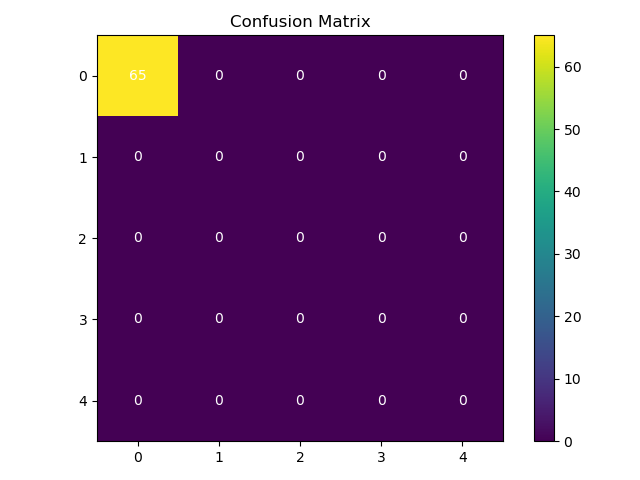
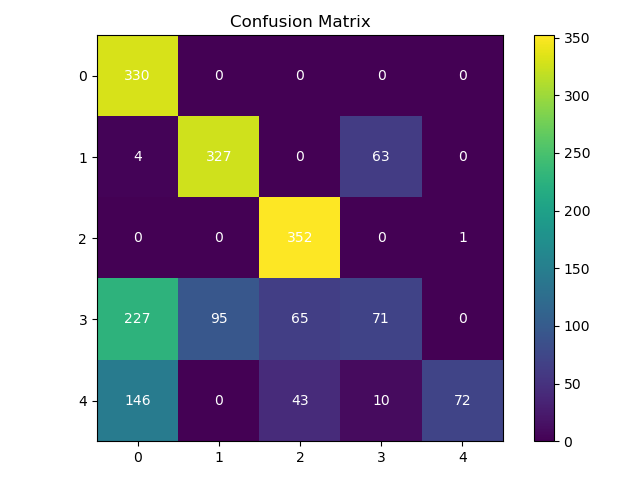
add mapping classes function

diff --git a/Kmeans.py b/Kmeans.py
@@ -95,6 +95,35 @@ def choose_initial_cluster_centers(points, clusters, dim):
 
     return us
 
+def map_classes(clustered_data, labeled_data, num_classes):
+    indicies = []
+    predict = clustered_data.copy()
+    labels = labeled_data.copy()
+    
+    all_counts = []
+    for i in range(num_classes):
+        counts = []
+        uniqueTruthvalues=np.unique(labeled_data)
+        unique, counts = np.unique(clustered_data[np.where(labeled_data == uniqueTruthvalues[i])], return_counts=True)
+        counts = dict(zip(unique, counts))
+        for k in range(num_classes):
+            if k not in counts.keys():
+                counts[k] = 0
+        keys = sorted(counts.keys())
+        counts_list = []
+        for key in keys:
+            counts_list.append(counts[key])
+
+        all_counts.append(counts_list)
+    
+    all_counts = np.array(all_counts)
+
+    for i in range(num_classes):
+        labels[labeled_data == uniqueTruthvalues[np.where(all_counts[0:,i:(i+1)] == np.amax(all_counts[0:,i:(i+1)]))[0][0]]] = i-(num_classes - 1)
+
+    labels += 4
+
+    return predict, labels
 
 #genrates initial means randomly
 def randomClassMeanGenrator(img,numberOfClasses,dim):
@@ -162,7 +191,7 @@ cl=kmeans.cluster_centers_
 
 groundtruthdata=groundtruth['Q3_GT']
 #[  0 182 219 237 255] it contains 5 unique classes not 7
-print(groundtruthdata[5])
+# print(groundtruthdata[5])
 arrspec =np.zeros((5,204))
 arrspec[0]=cl[0]
 arrspec[1]=cl[1]
@@ -178,20 +207,29 @@ arrspec=choose_initial_cluster_centers(imgdata,5,imgdata.shape[2])
 #         print(str(i) + " " + str(j))
 #         print((arrspec[j] == arrspec[i]).all())
 
+
+
+
 kmImage,clusterNoImage,newClusterMeans= kmeansX(imgdata,5,arrspec)
-reIndexed=np.zeros(clusterNoImage.shape)
-norms=np.zeros(5)
-for i in range(5):
-    norms[i]=np.linalg.norm(newClusterMeans[i]) 
-normssorted=np.unique(norms)
-uniqueTruthvalues=np.unique(groundtruthdata)    
-for j in range(0,clusterNoImage.shape[0]):
-    for k in range(0,clusterNoImage.shape[1]):
-        classNumber=clusterNoImage[j][k]
-        classMeanNorm=norms[(classNumber).astype(int)]
-        toBeAddedClassNo=uniqueTruthvalues[np.where(normssorted==classMeanNorm)]
-        reIndexed[j][k]=toBeAddedClassNo
-print(reIndexed[5])
+
+predict, labels = map_classes(clusterNoImage, groundtruthdata, 5)
+
+# reIndexed=np.zeros(clusterNoImage.shape)
+# norms=np.zeros(5)
+# for i in range(5):
+#     norms[i]=np.linalg.norm(newClusterMeans[i]) 
+# normssorted=np.unique(norms)
+# uniqueTruthvalues=np.unique(groundtruthdata)    
+# # print(normssorted)
+# # print(uniqueTruthvalues)
+# for j in range(0,clusterNoImage.shape[0]):
+#     for k in range(0,clusterNoImage.shape[1]):
+#         classNumber=clusterNoImage[j][k]
+#         classMeanNorm=norms[(classNumber).astype(int)]
+#         toBeAddedClassNo=uniqueTruthvalues[np.where(normssorted==classMeanNorm)]
+#         reIndexed[j][k]=toBeAddedClassNo
+# print(reIndexed[5])
+# print(groundtruthdata[0])
 # print(clusterNoImage[0])
 # print(groundtruthdata[0])
 # print(kmImage.shape)
@@ -201,8 +239,8 @@ plt.figure()
 plt.imshow(clusterNoImage.astype(np.uint8))
 plt.savefig("number.png")
 
-plt.imshow(reIndexed.astype(np.uint8))
-plt.savefig("number4.png")
+# plt.imshow(reIndexed.astype(np.uint8))
+# plt.savefig("number4.png")
 
 # plt.figure()
 # plt.imshow(groundtruthdata.astype(np.uint8))
@@ -220,10 +258,10 @@ plt.savefig("number4.png")
 # print(kmeans.cluster_centers_)
 # print(kmeans.labels_)
 
-plt.figure()
-plt.imshow(np.reshape(kmeans.labels_,(42,43)).astype(np.uint8))
-plt.savefig("number3.png")
+# plt.figure()
+# plt.imshow(np.reshape(kmeans.labels_,(42,43)).astype(np.uint8))
+# plt.savefig("number3.png")
 
-
-cm = confusion.confusion_matrix_compute(reIndexed,groundtruthdata)
+cm, acc = confusion.confusion_matrix_compute(predict,labels)
+print(acc)
 confusion.confusion_matrix_save(cm)

diff --git a/confusion.py b/confusion.py
@@ -10,12 +10,19 @@ def confusion_matrix_compute(predicts, labels):
 
     cm = np.zeros((num_classes,num_classes))
 
+    accuracy = 0
+
     for i in range(predicts_flat.shape[0]):
         predict = int(predicts_flat[i])
         label = int(labels_flat[i])
         cm[label:label+1, predict:predict+1] += 1
+        
+        if label == predict:
+            accuracy += 1
 
-    return cm
+    accuracy = round(accuracy / len(labels_flat),4)
+
+    return cm, accuracy
 
 def confusion_matrix_save(cm, path=''):
     plt.figure()
